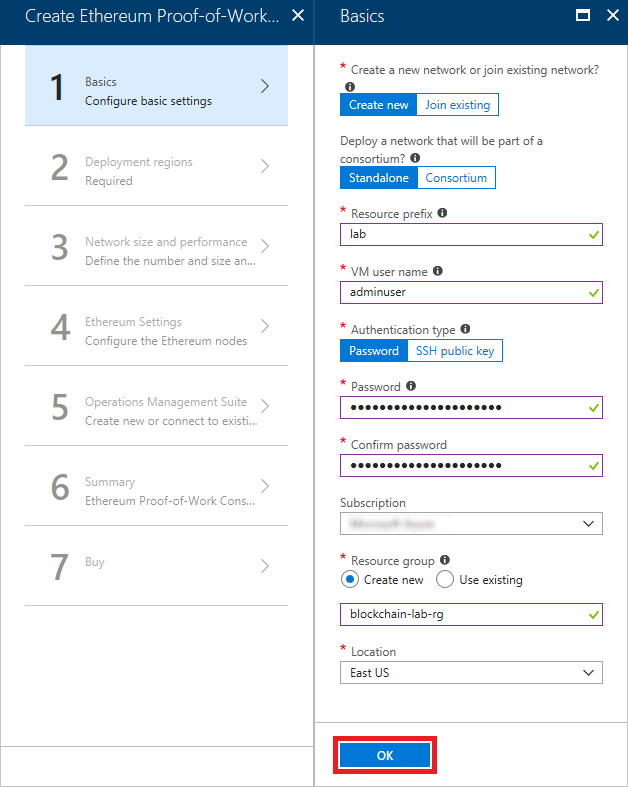
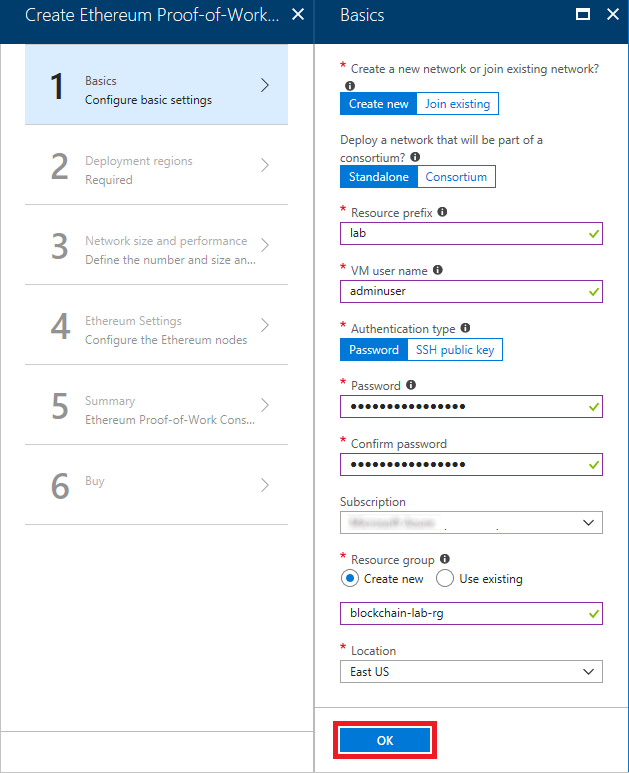
Updated Blockchain Rate-My-Professor lab to use VS Code

diff --git a/Labs/Azure Services/Blockchain on Azure (Rate My Professor)/Resources/index.js b/Labs/Azure Services/Blockchain on Azure (Rate My Professor)/Resources/index.js
@@ -6,7 +6,7 @@ var app = express();
 
 var etherUrl = "ENDPOINT_URL";
 var account = "ACCOUNT_ADDRESS";
-var contract = "CONTRACT_ADDRESS"
+var contract = "CONTRACT_ADDRESS";
 
 var httpPort = 8080;
 var web3 = new Web3();

diff --git a/Labs/Azure Services/Blockchain on Azure (Rate My Professor)/Blockchain on Azure.md b/Labs/Azure Services/Blockchain on Azure (Rate My Professor)/Blockchain on Azure.md
@@ -28,6 +28,7 @@ In this hands-on lab, you will learn how to:
 ### Prerequisites ###
 
 - An active Microsoft Azure subscription. If you don't have one, [sign up for a free trial](http://aka.ms/WATK-FreeTrial).
+- [Visual Studio Code](http://code.visualstudio.com)
 - [Node.js](https://nodejs.org)
 
 <a name="Cost"></a>
@@ -77,19 +78,13 @@ In this exercise, you will use the Azure Portal to deploy an Ethereum Blockchain
 
 1. Click **OK** at the bottom of the "Network Size and Performance" blade to accept the default settings for VM sizes, number of nodes, and so on.
 
-1. In the "Ethereum Settings" blade, set the member ID to **123** and enter a password in four places as the Ethereum account password and private key passphrase. Then click **OK**. Once again, *remember the password that you entered, because you will need it in the next exercise*.
+1. In the "Ethereum Settings" blade, set Consortium Member Id to **123** and enter a password in four places as the Ethereum account password and private key passphrase. Then click **OK**. Once again, *remember the password that you entered, because you will need it in the next exercise*.
+
+	> The member ID is used to avoid IP collisions when multiple organizations are deployed to a single Ethereum network. Because you aren't sharing the network with other organizations, the ID that you enter is unimportant.
 
     ![Entering Ethereum settings](Images/blockchain-settings-3.png)
 
     _Entering Ethereum settings_
-
-1. Fill in the "OMS" blade as shown below, selecting the region closest to you. Then click **OK**.
-
-    > OMS stands for [Operations Management Suite](https://www.microsoft.com/cloud-platform/operations-management-suite) and is a feature of Azure that allows you to monitor workloads running in the cloud and gain real-time insights into their operation. When you deploy an Ethereum network, Azure automatically connects it to an OMS instance.
-
-    ![Entering OMS settings](Images/blockchain-settings-4.png)
-
-    _Entering OMS settings_
 
 1. Review the settings in the "Summary" blade and click **OK** at the bottom of the blade. Then click the **Create** button at the bottom of the "Create" blade to begin the deployment.
 
@@ -132,15 +127,15 @@ Every transaction performed in a blockchain must be "fueled" by an account. This
 
 1. Execute the following command in the cloud shell to attach to the first node in the Ethereum network. [geth](https://github.com/ethereum/go-ethereum/wiki/Command-Line-Options), which is short for "go-ethereum," is a multipurpose command for managing Ethereum networks.
 
-    ```shell
-    geth attach
-    ```
+	```shell
+	geth attach
+	```
 
 1. Now execute the following command to unlock the coinbase account, substituting the password you entered in Exercise 1, Step 6 for PASSWORD:
 
-    ```shell
-    web3.personal.unlockAccount(web3.personal.listAccounts[0],"PASSWORD",28800)
-    ```
+	```shell
+	web3.personal.unlockAccount(web3.personal.listAccounts[0],"PASSWORD",28800)
+	```
 
     This will allow you to perform transactions using the coinbase account for up to 8 hours (28,800 seconds). Make sure that the output from the command is the word "true," as shown below.
 
@@ -150,17 +145,17 @@ Every transaction performed in a blockchain must be "fueled" by an account. This
 
 1. Now use the following command to get the address of the coinbase account:
 
-    ```shell
-    web3.personal.listAccounts[0]
-    ```
+	```shell
+	web3.personal.listAccounts[0]
+	```
 
     The output will be a hex value similar to this one:
 
-    ```shell
-    0xd19cc89f0c9c1bf8280b9c8ec8125bd0e028ee51
-    ```
+	```shell
+	0xd19cc89f0c9c1bf8280b9c8ec8125bd0e028ee51
+	```
 
-    Copy this address to the clipboard and paste it into a text file so you can easily retrieve it later.
+    Copy this value to the clipboard and **paste it into a text file** so you can easily retrieve it later.
 
 1. Type ```exit``` into the cloud shell to detach from Ethereum.
 
@@ -175,136 +170,138 @@ Ethereum blockchains use smart contracts to broker transactions. A smart contrac
 
 1. If Node.js isn't installed on your computer, go to <https://nodejs.org> and install the latest LTS version for your operating system. If you aren't sure whether Node.js is installed, open a Command Prompt or terminal window and execute the following command:
 
-    ```shell
-    node --version
-    ```
+	```shell
+	node --version
+	```
 
     If you don't see a Node.js version number, then Node.js isn't installed.
 
-1. If you are using macOS or Linux, open a terminal window. If you are using Windows instead, open a PowerShell window running **as an administrator**. In the terminal or PowerShell window, use the following command to create a directory named "truffle" in the location of your choice:
+1. Create a directory named "truffle" in the location of your choice on your hard disk.
 
-    ```shell
-    mkdir truffle
-    ```
+1. If you are using macOS or Linux, open a terminal window. If you are using Windows, open a PowerShell window. In the terminal or PowerShell window, ```cd``` to the "truffle" directory you created in the previous step and use the following command to install Truffle:
 
-1. Now change to the "truffle" directory:
+	```shell
+	npm install -g truffle
+	```
 
-    ```shell
-    cd truffle
-    ```
+1. Now use the following command to initialize a Truffle project in the current directory. This will download a few Solidity scripts and install them, and create a scaffolding in the "truffle" folder.
 
-1. Use the following command to install Truffle:
+	```shell
+	truffle init
+	```
 
-    ```shell
-    npm install -g truffle
-    ```
+1. If Visual Studio Code isn't installed on your PC, go to https://code.visualstudio.com/ and install it now. Visual Studio Code is a free, lightweight source-code editor for Windows, macOS, and Linux. It features IntelliSense, integrated Git support, and much more.
 
-1. Use the following command to initialize a Truffle project in the current directory. This will download a few Solidity scripts and install them, and create a scaffolding in the "truffle" folder.
+1. Start Visual Studio Code and use the **File** > **Open Folder...** command to open the "truffle" directory that you created in Step 2. Confirm that the directory contains a pair of files named **truffle.js** and **truffle-config.js**, as shown below. These files are part of the scaffolding created by the ```truffle init``` command.
 
-    ```shell
-    truffle init
-    ```
+	![Visual Studio Code](Images/visual-studio-code.png)
 
-1. Return to the Azure portal and click the **Copy** button to the right of ETHEREUM-RPC-ENDPOINT to copy the endpoint URL to the clipboard. This URL is important, because it allows apps to make JSON-RPC calls to the network to deploy smart contracts and perform other blockchain-related tasks.
+	_Visual Studio Code_
+
+1. Open **truffle.js** in Visual Studio Code and replace its contents with the following statements: 
+
+	```javascript
+	module.exports = {
+	  networks: {
+	    development: {
+	      host: "ENDPOINT_URL",
+	      port: PORT_NUMBER,
+	      network_id: "*", // Match any network id
+	      gas: 4712388
+	    }
+	  }
+	};
+	```
+
+1. Return to the Azure portal and click the **Copy** button to the right of ETHEREUM-RPC-ENDPOINT to copy the endpoint URL to the clipboard. This URL is important, because it allows apps to make JSON-RPC calls to the Ethereum network to deploy smart contracts and perform other blockchain-related tasks.
 
     ![Copying the endpoint URL](Images/copy-endpoint.png)
 
     _Copying the endpoint URL_
 
-1. Use your favorite text or program editor such as [Visual Studio Code](https://code.visualstudio.com/) to open the file named **truffle.js** in the "truffle" folder you created. Replace its contents with the statements below. Then replace ENDPOINT_URL on line 4 with the URL on the clipboard minus the leading "http://" and the trailing port number (for example, ":8545"), and replace PORT_NUMBER on line 5 with the port number you removed from the URL.
+1. Return to **truffle.js** in Visual Studio Code. Replace ENDPOINT_URL on line 4 with the URL on the clipboard. Then remove the leading "http://" and the trailing port number (for example, ":8545"), and replace PORT_NUMBER on line 5 with the port number you removed from the URL. The modified file should look something like this:
 
-	> Visual Studio Code is Microsoft's free, cross-platform source-code editor. It runs great on Windows as well as on Linux and macOS. It also features IntelliSense, integrated Git support, and much more.
+	```javascript
+	module.exports = {
+	  networks: {
+	    development: {
+	      host: "labng2-dns-reg1.eastus.cloudapp.azure.com",
+	      port: 8545,
+	      network_id: "*", // Match any network id
+	      gas: 4712388
+	    }
+	  }
+	};
+	```
 
-    ```javascript
-    module.exports = {
-      networks: {
-        development: {
-          host: "ENDPOINT_URL",
-          port: PORT_NUMBER,
-          network_id: "*", // Match any network id
-          gas: 4712388
-        }
-      }
-    };
-    ```
+	Once these changes are made, save the file.
 
-    The modified file should look something like this:
+1. Create a file named **profrates.sol** in the subdirectory named "contracts" and paste in the following code. Then save the file.
 
-    ```javascript
-    module.exports = {
-      networks: {
-        development: {
-          host: "labng2-dns-reg1.eastus.cloudapp.azure.com",
-          port: 8545,
-          network_id: "*", // Match any network id
-          gas: 4712388
-        }
-      }
-    };
-    ```
-
-    Once these changes are made, save the file.
-
-1. Create a file named **profrates.sol** in the subdirectory named "contracts" (which was created when you ran ```truffle init```) and paste in the following code. Then save the file.
-
-    ```javascript
-    pragma solidity ^0.4.16;
-
-    contract profrates {
-
-        event newRating(uint id);
-
-        struct Rating {
-            uint professorID;
-            string comment;
-            uint stars;
-        }
-
-        Rating[] ratings;
-
-        function addRating(uint professorID, string comment, uint stars) public returns (uint ratingID) {
-            ratingID = ratings.length;
-            ratings[ratings.length++] = Rating(professorID, comment, stars);
-            emit newRating(ratingID);
-        }
-
-        function getRatingsCount() constant public returns (uint count) {
-            return ratings.length;
-        }
-
-        function getRating(uint index) constant public returns (uint professorID, string comment, uint stars) {
-            professorID = ratings[index].professorID;
-            comment = ratings[index].comment;
-            stars = ratings[index].stars;
-        }
-    }
-    ```
+	```javascript
+	pragma solidity ^0.4.16;
+	
+	contract profrates {
+	
+	    event newRating(uint id);
+	
+	    struct Rating {
+	        uint professorID;
+	        string comment;
+	        uint stars;
+	    }
+	
+	    Rating[] ratings;
+	
+	    function addRating(uint professorID, string comment, uint stars) public returns (uint ratingID) {
+	        ratingID = ratings.length;
+	        ratings[ratings.length++] = Rating(professorID, comment, stars);
+	        emit newRating(ratingID);
+	    }
+	
+	    function getRatingsCount() constant public returns (uint count) {
+	        return ratings.length;
+	    }
+	
+	    function getRating(uint index) constant public returns (uint professorID, string comment, uint stars) {
+	        professorID = ratings[index].professorID;
+	        comment = ratings[index].comment;
+	        stars = ratings[index].stars;
+	    }
+	}
+	```
 
     This code, which constitutes a smart contract, is written in [Solidity](https://en.wikipedia.org/wiki/Solidity), which is similar to JavaScript. Solidity files are compiled to JSON files containing interface definitions as well as bytecode. This contract contains functions for adding a rating to the blockchain, getting a count of ratings recorded in the blockchain, and retrieving individual ratings. A "rating" is defined by the ```Rating``` structure, which contains the ID of the professor to which the rating pertains, a textual comment, and a numeric value from 1 to 5.
 
 1. Create a file named **2_deploy_contracts.js** in the "migrations" subdirectory. Paste the following code into the file and save it:
 
-    ```javascript
-    var profrates = artifacts.require("./profrates.sol");
-
-    module.exports = function(deployer) {
-        deployer.deploy(profrates);
-    };
-    ```
+	```javascript
+	var profrates = artifacts.require("./profrates.sol");
+	
+	module.exports = function(deployer) {
+	    deployer.deploy(profrates);
+	};
+	```
 
     This is the code that deploys the contract to the blockchain.
 
-1. Return to the terminal or PowerShell window and execute the following command to compile the  contract:
+1. Select **Integrated Terminal** from Visual Studio Code's **View** menu to open an integrated terminal. If you are using Windows, make sure the language selected for the integrated terminal is PowerShell. Then execute the following command in the integrated terminal to compile the  contract:
 
-    ```shell
-    truffle compile
-    ```
+	```shell
+	truffle compile
+	```
 
-1. Now use the following command to deploy the contract to the blockchain:
+1. Now execute the following command in the integrated terminal to deploy the contract to the blockchain:
 
-    ```shell
-    truffle deploy
-    ```
+	```shell
+	truffle deploy
+	```
+
+1. Copy the address of the "profrates" contract shown in the command output to the clipboard and **paste it into a text file** so you can easily retrieve it later.
+
+	![Saving the contract address](Images/copy-contract-address.png)
+
+	_Saving the contract address_
 
 The contract is now present in the blockchain and waiting to be invoked. All you lack is a mechanism for invoking it. In the next exercise, you will invoke the contract from a Web app that runs on Node.js.
 
@@ -313,47 +310,47 @@ The contract is now present in the blockchain and waiting to be invoked. All you
 
 Smart contracts are designed to be used by applications that use the blockchain for secure transactions. In this exercise, you will run a Web app written in Node.js that uses the "profrates" contract. The app allows users to rate professors from one to five stars and enter comments to go with the ratings. The data is stored in the blockchain. The app uses a library named [web3.js](https://github.com/ethereum/web3.js/), which wraps the [Ethereum RPC API](https://ethereumbuilders.gitbooks.io/guide/content/en/ethereum_json_rpc.html) and dramatically simplifies code for interacting with smart contracts. Note that there are also web3 libraries available for other languages, including .NET, Java and Python.
 
-1. Create a directory named "Profrates" to serve as the project directory for the Web site. Open the zip file containing the [source code for the Web site](https://topcs.blob.core.windows.net/public/profrates-resources.zip) and copy its contents into the "Profrates" directory.
+1. If you are running Windows, open a PowerShell window running **as an administrator**. Then execute the following command to install [Windows-Build-Tools](https://www.npmjs.com/package/windows-build-tools), which enables native Node modules to be compiled on Windows:
 
-1. In a terminal or PowerShell window, ```cd``` to the "Profrates" directory. If you are running Linux or macOS, proceed to Step 3. If you are running Windows, make sure PowerShell is running as an an administrator and execute the following command to install [Windows-Build-Tools](https://www.npmjs.com/package/windows-build-tools), which enables native Node modules to be compiled on Windows:
+	```shell
+	npm install -g --production windows-build-tools
+	```
 
-    ```shell
-    npm install -g --production windows-build-tools
-    ```
+	This command might take 5 minutes or more to complete, so be patient!
 
-    This command might take 5 minutes or more to complete, so be patient! It must be run as an administrator, so if you closed the PowerShell window that you opened as an administrator in [Exercise 3](#Exercise3), start PowerShell as an administrator to execute the command.
+1. Create a directory named "Profrates" to serve as the project directory for the Web site. Download the zip file containing the [source code for the Web site](https://topcs.blob.core.windows.net/public/profrates-resources.zip) and copy its contents into the "Profrates" directory.
 
-1. Now execute the following command to install the packages listed in the **package.json** file:
+1. Return to Visual Studio Code and use the **File > Open Folder...** command to open the "Profrates" directory. Then execute the following command in Visual Studio Code's integrated terminal to install the packages listed in the **package.json** file:
 
-    ```shell
-    npm install
-    ```
+	```shell
+	npm install
+	```
 
-1. Open **index.js** in the "Profrates" directory in your favorite text or program editor. Replace ENDPOINT_URL on line 6 with the Ethereum RPC endpoint you obtained from the Azure Portal in Exercise 3, Step 6 (`ETHEREUM-RPC-ENDPOINT`).
+1. Return to the Azure portal and click the **Copy** button to the right of ETHEREUM-RPC-ENDPOINT to copy the endpoint URL to the clipboard as you did in Exercise 3, Step 8.
 
-1. Replace ACCOUNT_ADDRESS on line 7 with the hex value address you saved in Exercise 2, Step 8.
+    ![Copying the endpoint URL](Images/copy-endpoint.png)
 
-1. In the PowerShell or terminal window, ```cd``` back to the "truffle" directory that you created in the previous exercise. Then use the following command to list the addresses of all the smart contracts in the project, including the "profrates" contract and some sample contracts that were created when you ran ```truffle init```:
+    _Copying the endpoint URL_
 
-    ```shell
-    truffle networks
-    ```
+1. Return to Visual Studio Code and open **index.js**. Replace ENDPOINT_URL on line 7 with the Ethereum RPC endpoint that's on the clipboard.
 
-    Replace CONTRACT_ADDRESS on line 8 of **index.js** with the "profrates" address in the output. Then save the file. The modified lines should look something like this:
+1. Replace ACCOUNT_ADDRESS on line 8 with the account address you saved in Exercise 2, Step 8.
 
-    ```javascript
-    var etherUrl = "http://labng2-dns-reg1.eastus.cloudapp.azure.com:8545";
-    var account = "0xd19cc89f0c9c1bf8280b9c8ec8125bd0e028ee51";
-    var contract = "0x62af894ebf09a58dbdb3f7b1444d767241c83da5";
-    ```
+1. Replace CONTRACT_ADDRESS on line 9 with the contract address you saved in Exercise, 3, Step 14. Then save your changes to **index.js**. The modified lines should look something like this:
 
-1. Use a ```cd``` command to navigate back to the "Profrates" directory. Then execute the following command to start the Web app:
+	```javascript
+	var etherUrl = "http://labng2-dns-reg1.eastus.cloudapp.azure.com:8545";
+	var account = "0xd19cc89f0c9c1bf8280b9c8ec8125bd0e028ee51";
+	var contract = "0x5402c34df62e6a8a3fc8d4f078c5495dd051dde9";
+	```
 
-    ```shell
-    node index.js
-    ```
+1. Execute the following command in Visual Studio Code's integrated terminal to start the Web app:
 
-1. Now open your browser and navigate to <http://localhost:8080.> Confirm that the Web site's home page appears.
+	```shell
+	node index.js
+	```
+
+1. Now open your browser and navigate to http://localhost:8080. Confirm that the Web site's home page appears.
 
     ![The Profrates home page](Images/profrates-1.png)
 
